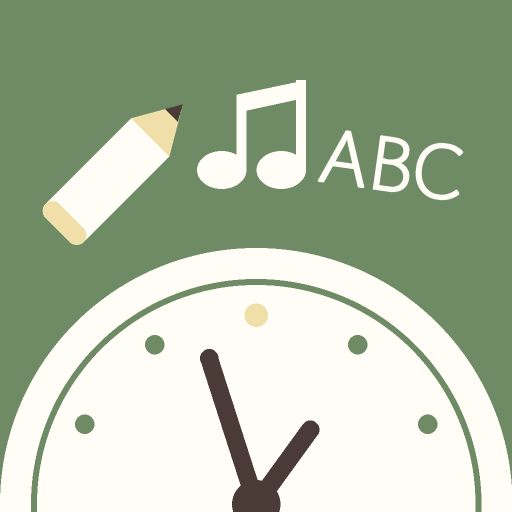
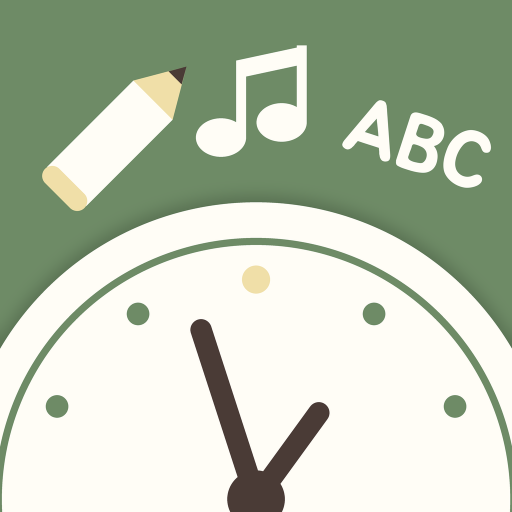
아이콘 다듬기 (hakwon-app 949c824)

diff --git a/flutter_bootstrap.js b/flutter_bootstrap.js
@@ -37,6 +37,6 @@ _flutter.buildConfig = {"engineRevision":"83675ed27633283e7fc296c8bca22e841224c0
 
 _flutter.loader.load({
   serviceWorkerSettings: {
-    serviceWorkerVersion: "418708404" /* Flutter's service worker is deprecated and will be removed in a future Flutter release. */
+    serviceWorkerVersion: "1745261201" /* Flutter's service worker is deprecated and will be removed in a future Flutter release. */
   }
 });
